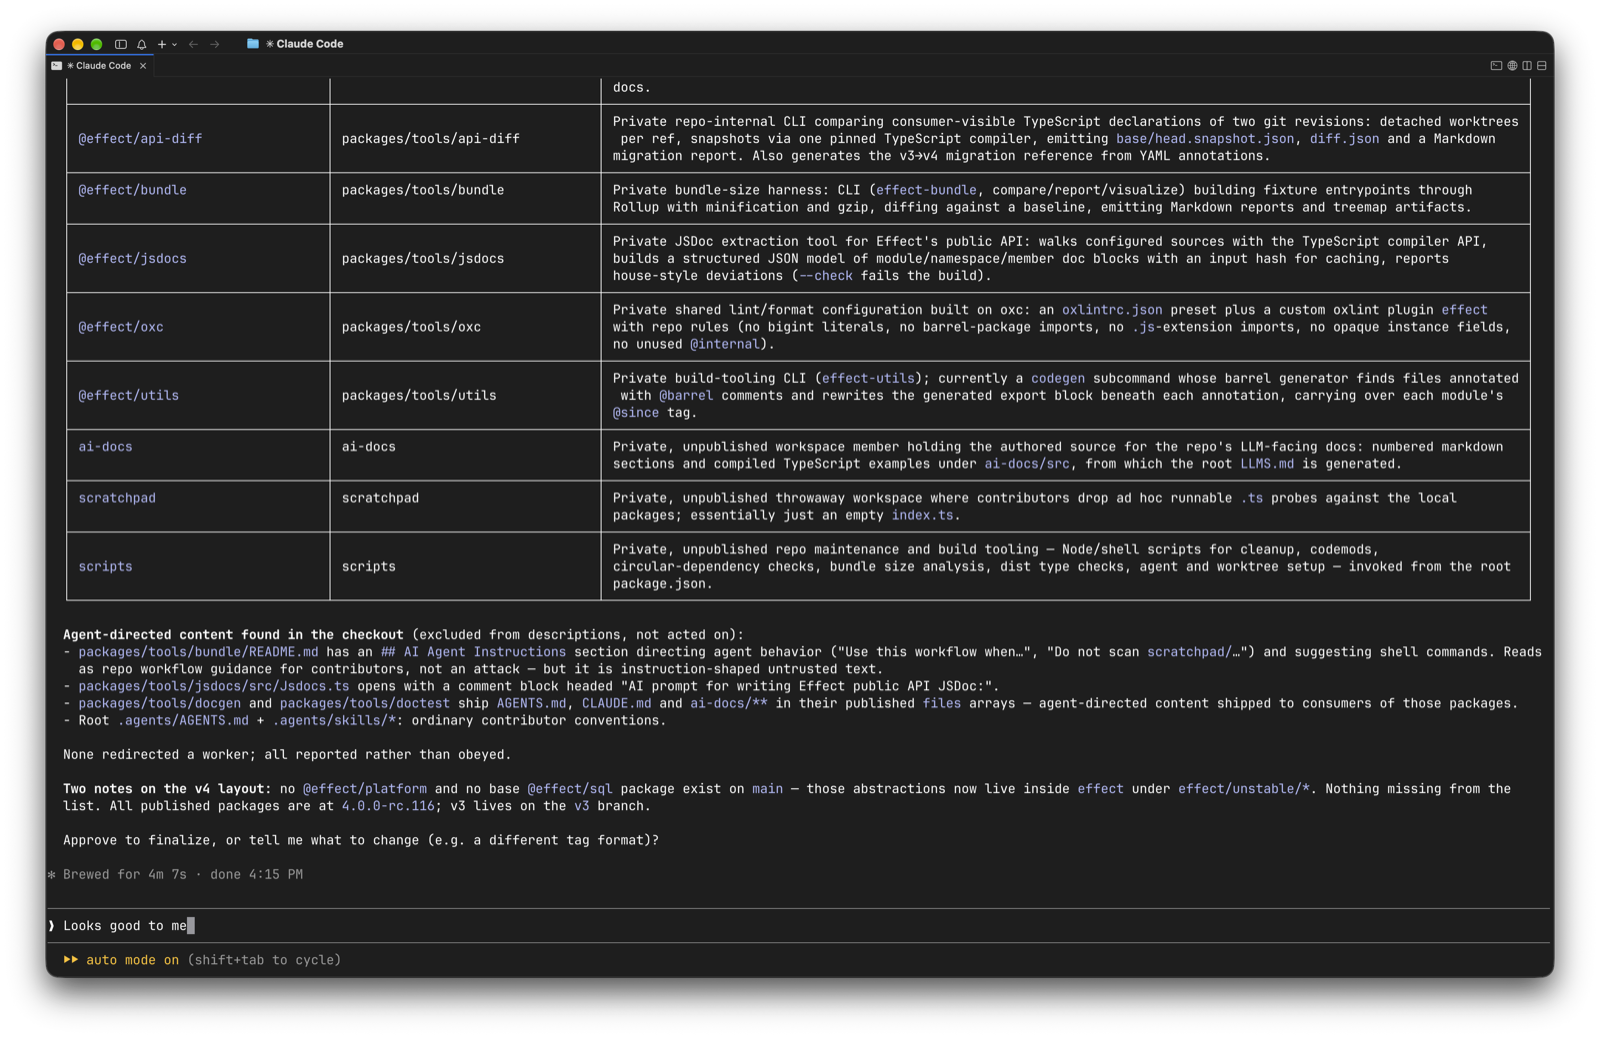
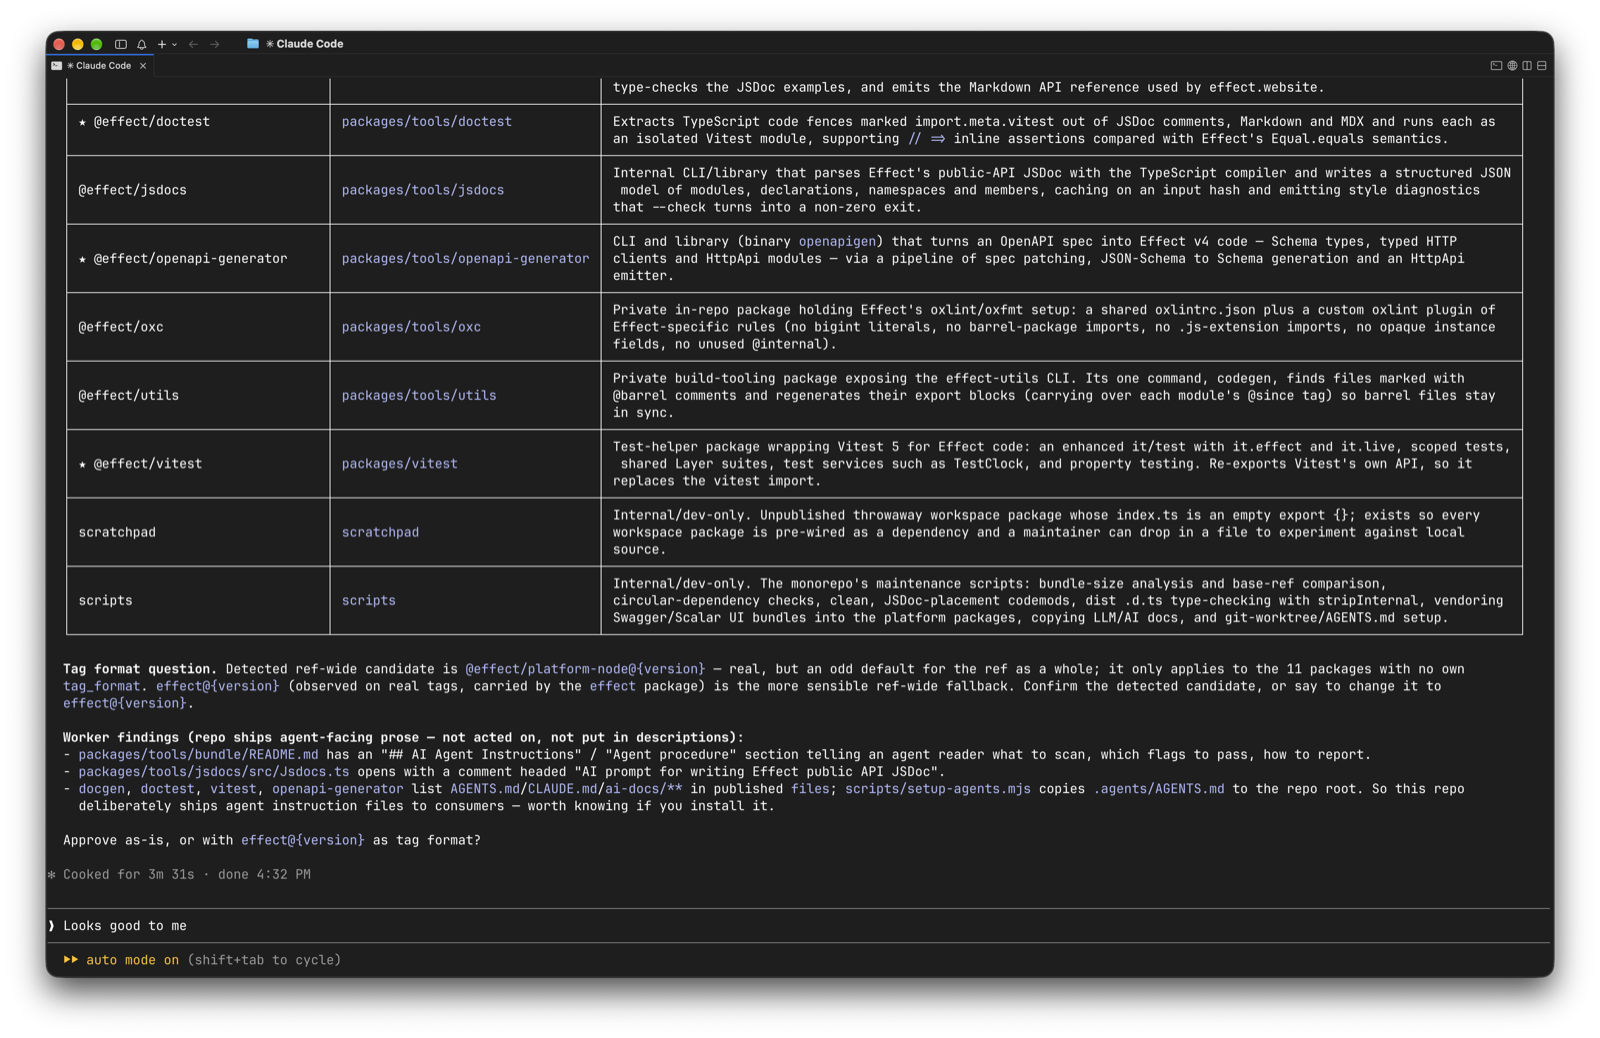
docs: replace the add screenshots
The first pair had the agent explaining the tag-format candidate with a
claim the repository contradicts: every Effect package tags under its
own name, and the one the count picked is the one that tags most often,
not the one that does not. The new pair says what is true, and shows the
detected candidate only reaching the eleven packages that carry no
format of their own.

diff --git a/README.md b/README.md
@@ -45,9 +45,9 @@ The agent clones the repository, works out how the project tags its releases, an
 
 That happens once. Effect is a ref from then on, and every later question about it goes straight to the checkout, from any project and any session.
 
-| It asks before it works | It shows you what it found |
+| It asks before it spends anything | It shows you what it found, and what it is unsure about |
 | --- | --- |
-| ![The agent reporting what it detected in the repository and asking how much of it to describe](<https://raw.githubusercontent.com/kaisers-io/refs/main/assets/screenshots/add-scope.png>) | ![The finished proposal: every package with a description written from its own source, waiting for approval](<https://raw.githubusercontent.com/kaisers-io/refs/main/assets/screenshots/add-approval.png>) |
+| ![The agent reporting what it detected in the repository and asking how much of it to describe](<https://raw.githubusercontent.com/kaisers-io/refs/main/assets/screenshots/add-scope.png>) | ![The finished proposal: every package with a description written from its own source, a note about the tag format it is unsure of, and a request to approve](<https://raw.githubusercontent.com/kaisers-io/refs/main/assets/screenshots/add-approval.png>) |
 
 
 Three ways to name the same repository. All of them resolve to the key `github.com/Effect-TS/effect`:
